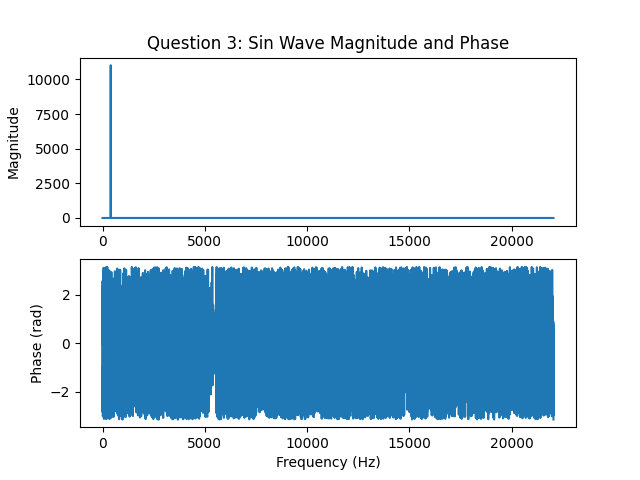
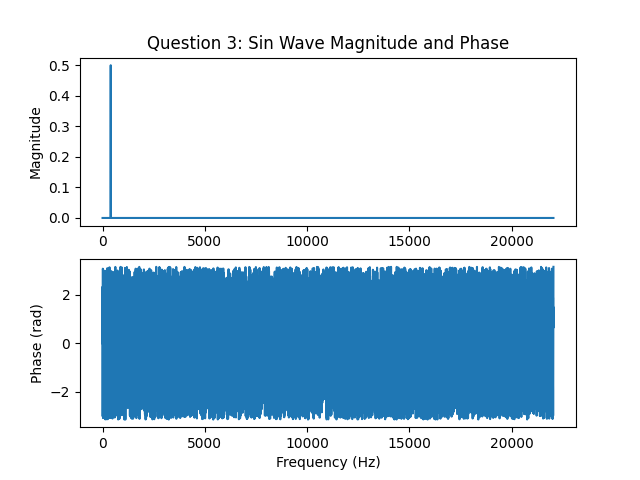
02/16 Update

diff --git a/assignment03/main.py b/assignment03/main.py
@@ -7,16 +7,9 @@ import matplotlib.pyplot as plt
 def generateSinusoidal(amplitude: float, sampling_rate_Hz: int, frequency_Hz: float,
                        length_secs: float, phase_radians: float) -> Tuple[np.array, np.array]:
     num_samples = round(length_secs * sampling_rate_Hz)
-    audio_array = np.zeros(num_samples)
-    time_array = np.zeros(num_samples)
-
-    for i in range(num_samples):
-        current_phase = np.fmod(phase_radians + 2 * np.pi * frequency_Hz / sampling_rate_Hz * i, 2*np.pi)
-        current_time = 1 / sampling_rate_Hz * i
-        audio_array[i] = np.sin(current_phase)
-        time_array[i] = current_time
-
-    audio_array *= amplitude
+    steps = np.arange(0, num_samples, dtype=np.int64)
+    audio_array = amplitude * np.sin(2 * np.pi * frequency_Hz * steps / sampling_rate_Hz + phase_radians)
+    time_array = steps / sampling_rate_Hz
 
     return audio_array, time_array
 
@@ -41,10 +34,9 @@ def generateSquare(amplitude: float, sampling_rate_Hz: int, frequency_Hz: float,
 def computeSpectrum(x: np.array, sample_rate_Hz: int) -> \
         Tuple[np.array, np.array, np.array, np.array, np.array]:
     signal_len = len(x)
-    x_fft = np.fft.fft(x)
+    x_fft = np.fft.fft(x) / signal_len
 
     # calculate the length of the non-repeated fft
-    fft_len = 0
     if signal_len % 2 == 0:
         # the length is even
         fft_len = signal_len // 2 + 1
@@ -98,7 +90,7 @@ def mySpecgram(x: np.array, block_size: int, hop_size: int, sampling_rate_Hz: in
         win = np.hanning(block_size).reshape(block_size, 1)
         blocks = blocks * win
 
-    magnitude_spectrogram = abs(np.fft.rfft(blocks, axis=0))
+    magnitude_spectrogram = abs(np.fft.rfft(blocks, axis=0) / block_size)
     freq_vector = np.linspace(0, sampling_rate_Hz/2, num=magnitude_spectrogram.shape[0], endpoint=False)
 
     plt.figure()
